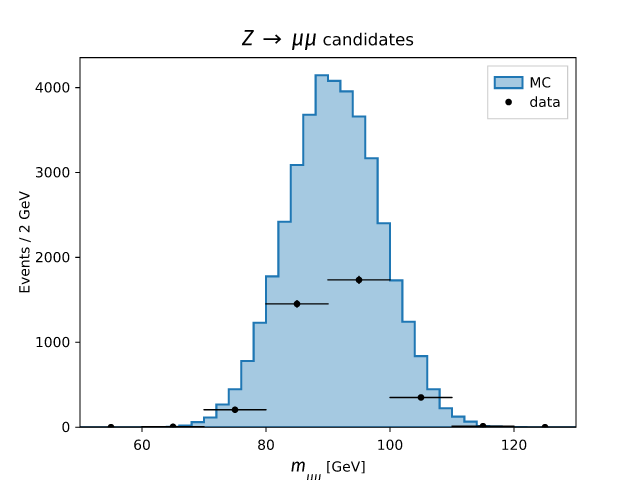
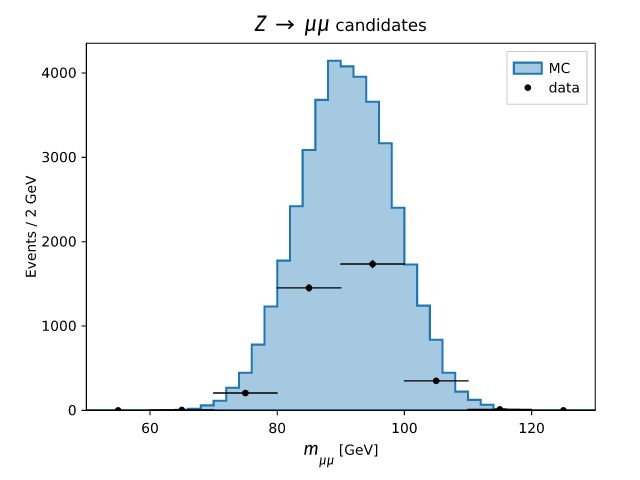
plot: widen default margins so `$…$` axis labels aren't clipped
The default subplot margins (matplotlib's 0.11 bottom / 0.125 left) were too
tight for a math axis label whose subscript descenders (e.g. the `μμ` in
`$m_{\mu\mu}$`) extend below the baseline, so the x-axis label overflowed the
figure's bottom edge. Bump the default `margins_frac` to (0.135, 0.93, 0.145,
0.91) — more room below/left for taller LaTeX labels, with right/top widened to
keep the plot area about the same. Refresh the committed example figures.

Changed region(s): [[0.0312, 0.0312, 0.9375, 1.0]]

diff --git a/crates/oxiroot-plot/src/style.rs b/crates/oxiroot-plot/src/style.rs
@@ -122,7 +122,10 @@ impl Default for Style {
             grid_color: Color::rgb(0xb0, 0xb0, 0xb0),
             grid_width_pt: 0.8,
             color_cycle: TAB10.to_vec(),
-            margins_frac: (0.125, 0.9, 0.11, 0.88),
+            // Slightly more generous than matplotlib's (0.125, 0.9, 0.11, 0.88)
+            // bottom/left, because `$…$` axis labels (with subscript descenders)
+            // are taller than plain text; right/top widen to keep the plot area.
+            margins_frac: (0.135, 0.93, 0.145, 0.91),
             legend_frame: true,
         }
     }